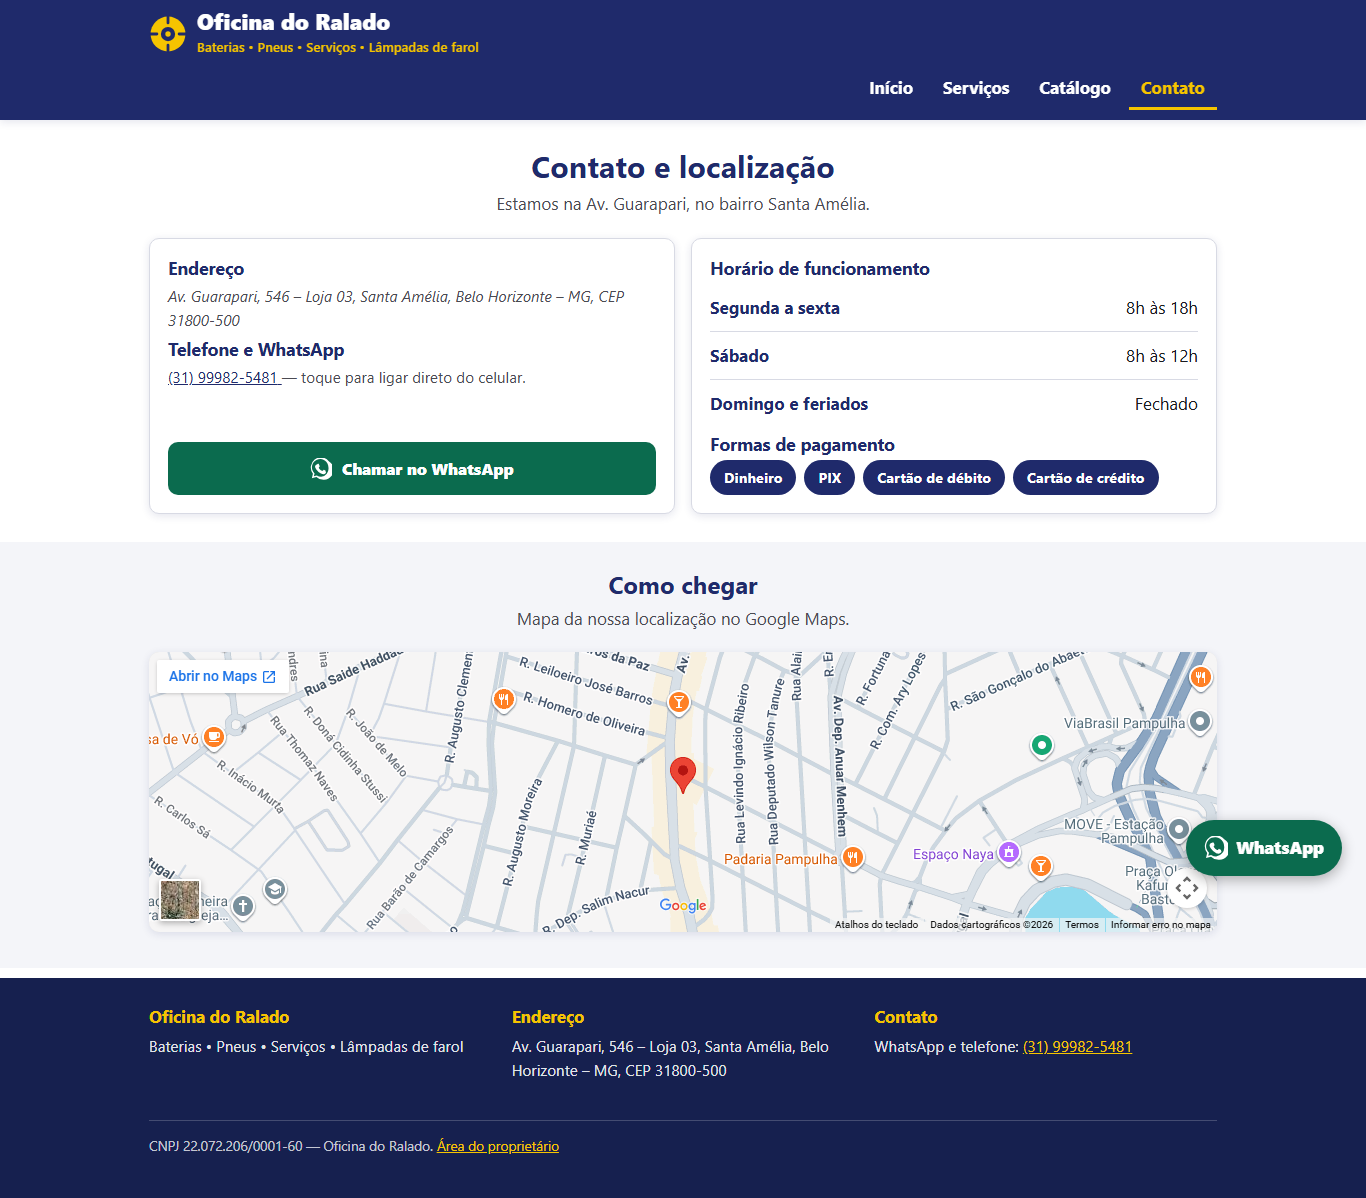
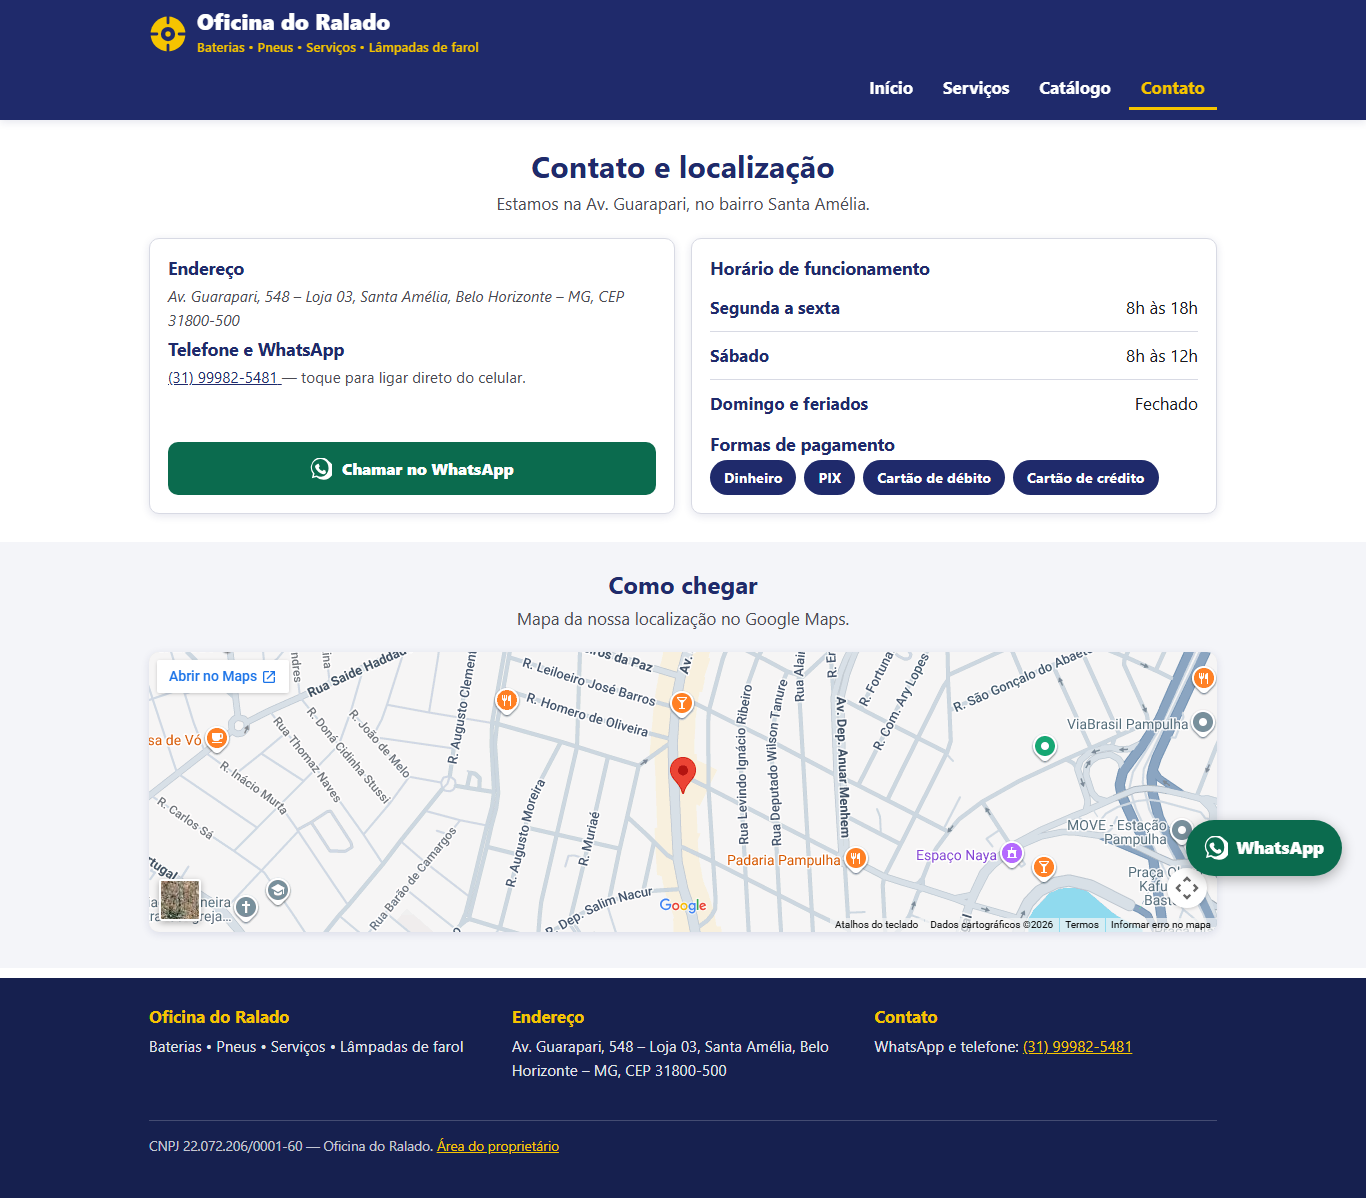
fix: corrige numero do endereco para 548 (Av. Guarapari)

Changed region(s): [[0.0922, 0.525, 0.8917, 0.7721], [0.2767, 0.525, 0.3075, 0.5559], [0.0922, 0.6486, 0.123, 0.6795]]

diff --git a/public/contato.html b/public/contato.html
@@ -65,7 +65,7 @@
             <div class="cartao">
               <h2 class="cartao__titulo">Endereço</h2>
               <address class="cartao__texto" data-empresa="endereco">
-                Av. Guarapari, 546 – Loja 03, Santa Amélia, Belo Horizonte – MG, CEP 31800-500
+                Av. Guarapari, 548 – Loja 03, Santa Amélia, Belo Horizonte – MG, CEP 31800-500
               </address>
 
               <h2 class="cartao__titulo">Telefone e WhatsApp</h2>
@@ -117,8 +117,8 @@
           <p class="secao__subtitulo">Mapa da nossa localização no Google Maps.</p>
           <iframe
             class="mapa"
-            title="Mapa com a localização da Oficina do Ralado na Av. Guarapari, 546, Santa Amélia, Belo Horizonte"
-            src="https://www.google.com/maps?q=Av.%20Guarapari%2C%20546%20-%20Santa%20Am%C3%A9lia%2C%20Belo%20Horizonte%20-%20MG%2C%2031800-500&amp;output=embed"
+            title="Mapa com a localização da Oficina do Ralado na Av. Guarapari, 548, Santa Amélia, Belo Horizonte"
+            src="https://www.google.com/maps?q=Av.%20Guarapari%2C%20548%20-%20Santa%20Am%C3%A9lia%2C%20Belo%20Horizonte%20-%20MG%2C%2031800-500&amp;output=embed"
             loading="lazy"
             referrerpolicy="no-referrer-when-downgrade"
           ></iframe>
@@ -136,7 +136,7 @@
           <div>
             <h2>Endereço</h2>
             <p data-empresa="endereco">
-              Av. Guarapari, 546 – Loja 03, Santa Amélia, Belo Horizonte – MG, CEP 31800-500
+              Av. Guarapari, 548 – Loja 03, Santa Amélia, Belo Horizonte – MG, CEP 31800-500
             </p>
           </div>
           <div>

diff --git a/public/index.html b/public/index.html
@@ -194,7 +194,7 @@
             <div class="cartao">
               <h2 class="cartao__titulo">Onde estamos</h2>
               <p class="cartao__texto" data-empresa="endereco">
-                Av. Guarapari, 546 – Loja 03, Santa Amélia, Belo Horizonte – MG, CEP 31800-500
+                Av. Guarapari, 548 – Loja 03, Santa Amélia, Belo Horizonte – MG, CEP 31800-500
               </p>
               <div class="cartao__rodape">
                 <a class="botao botao--azul botao--bloco" href="/contato.html">Ver mapa e formas de pagamento</a>
@@ -227,7 +227,7 @@
           <div>
             <h2>Endereço</h2>
             <p data-empresa="endereco">
-              Av. Guarapari, 546 – Loja 03, Santa Amélia, Belo Horizonte – MG, CEP 31800-500
+              Av. Guarapari, 548 – Loja 03, Santa Amélia, Belo Horizonte – MG, CEP 31800-500
             </p>
           </div>
           <div>

diff --git a/config/empresa.js b/config/empresa.js
@@ -14,13 +14,13 @@ const empresa = {
   cnpj: '22.072.206/0001-60',
 
   endereco: {
-    logradouro: 'Av. Guarapari, 546 – Loja 03',
+    logradouro: 'Av. Guarapari, 548 – Loja 03',
     bairro: 'Santa Amélia',
     cidade: 'Belo Horizonte',
     estado: 'MG',
     cep: '31800-500',
     // Texto completo usado no rodapé e na página de contato.
-    completo: 'Av. Guarapari, 546 – Loja 03, Santa Amélia, Belo Horizonte – MG, CEP 31800-500'
+    completo: 'Av. Guarapari, 548 – Loja 03, Santa Amélia, Belo Horizonte – MG, CEP 31800-500'
   },
 
   // Telefone/WhatsApp. O numero "limpo" (so digitos, com DDI 55) monta o link wa.me.

diff --git a/public/catalogo.html b/public/catalogo.html
@@ -106,7 +106,7 @@
           <div>
             <h2>Endereço</h2>
             <p data-empresa="endereco">
-              Av. Guarapari, 546 – Loja 03, Santa Amélia, Belo Horizonte – MG, CEP 31800-500
+              Av. Guarapari, 548 – Loja 03, Santa Amélia, Belo Horizonte – MG, CEP 31800-500
             </p>
           </div>
           <div>

diff --git a/public/servicos.html b/public/servicos.html
@@ -94,7 +94,7 @@
           <div>
             <h2>Endereço</h2>
             <p data-empresa="endereco">
-              Av. Guarapari, 546 – Loja 03, Santa Amélia, Belo Horizonte – MG, CEP 31800-500
+              Av. Guarapari, 548 – Loja 03, Santa Amélia, Belo Horizonte – MG, CEP 31800-500
             </p>
           </div>
           <div>

diff --git a/docs/manual-do-usuario.md b/docs/manual-do-usuario.md
@@ -126,7 +126,7 @@ Isso é importante principalmente se você usou o celular ou o computador de out
 ### Sobre a sua senha
 
 - **Use uma senha forte**: pelo menos 10 caracteres, misturando letras maiúsculas, minúsculas,
-  números e um símbolo. Exemplo de ideia: `Oficina@Guarapari546`.
+  números e um símbolo. Exemplo de ideia: `Oficina@Guarapari548`.
 - **Não use** datas de aniversário, placa do carro, `123456` ou o nome da oficina sozinho.
 - **Não compartilhe a senha** com ninguém — nem com cliente, nem com fornecedor, nem por WhatsApp.
 - Se você desconfiar que alguém descobriu a senha, peça para trocá-la na hora.

diff --git a/README.md b/README.md
@@ -13,7 +13,7 @@ site pelo celular, sem depender de ninguém.
 | Empresa | Oficina do Ralado |
 | Ramo | Baterias • Pneus • Serviços • Lâmpadas de farol |
 | Proprietário | Renê Ribeiro Soares |
-| Endereço | Av. Guarapari, 546 – Loja 03, Santa Amélia, Belo Horizonte – MG, CEP 31800-500 |
+| Endereço | Av. Guarapari, 548 – Loja 03, Santa Amélia, Belo Horizonte – MG, CEP 31800-500 |
 | WhatsApp | (31) 99982-5481 |
 | CNPJ | 22.072.206/0001-60 |
 
